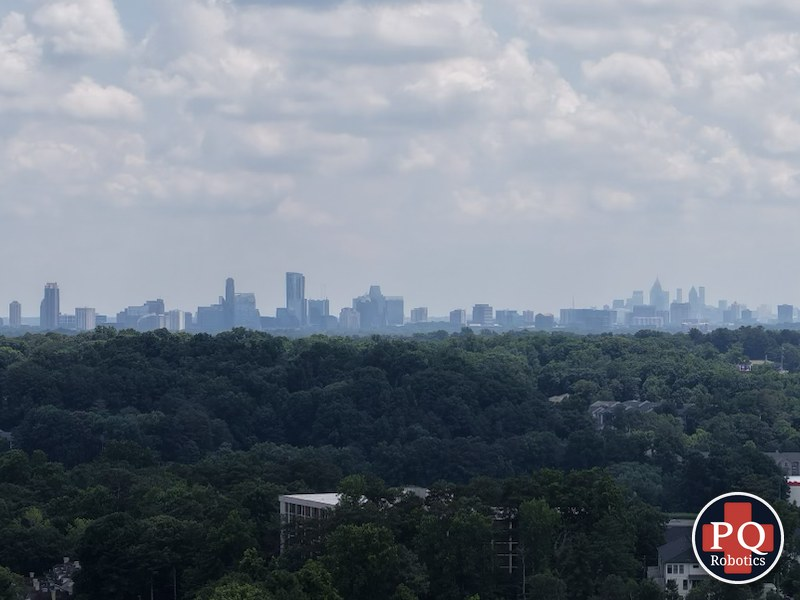
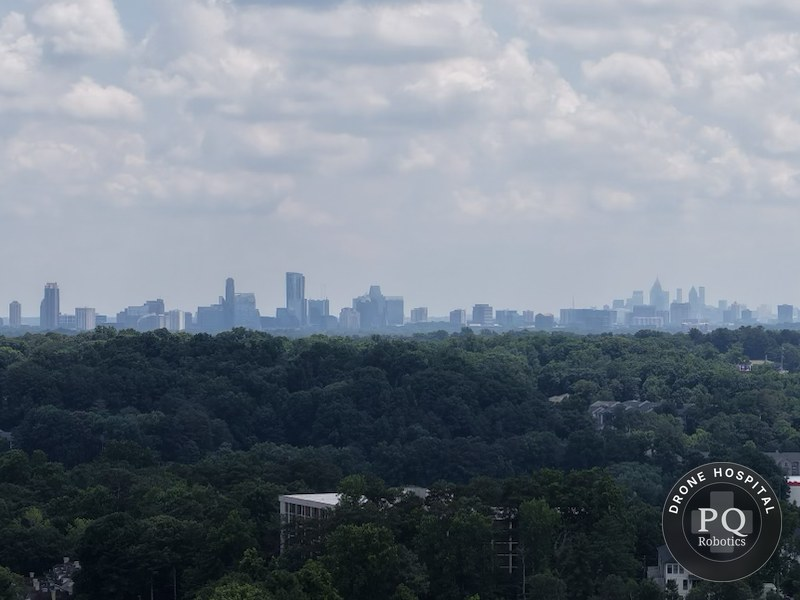
Watermark: Drone Hospital smoked-glass badge on our photos, reusable badge overlay
Claude-Session: https://claude.ai/code/session_01VkrTbRGtEEZ22rCT1RnFSw

Changed region(s): [[0.8125, 0.75, 1.0, 0.99]]

diff --git a/tools/watermark.py b/tools/watermark.py
@@ -1,55 +1,51 @@
 #!/usr/bin/env python3
-"""PQ Robotics photo watermark: the company logo inside a white ring, bottom-right.
+"""PQ Robotics / Drone Hospital photo watermark.
+
+Smoked-glass badge in the bottom-right corner: the photo behind it is blurred and
+darkened, with DRONE HOSPITAL around the ring and the PQ Robotics logo inside.
+The badge artwork lives in assets/images/watermark-badge.png.
 
 Usage:
-  python3 tools/watermark.py PHOTO [PHOTO ...]            # stamps in place
-  python3 tools/watermark.py --safe-16x9 PHOTO ...        # for photos shown in 16:9 thumbnails
-  python3 tools/watermark.py --out stamped/ PHOTO ...     # write copies instead
+  python3 tools/watermark.py PHOTO [PHOTO ...]          # stamps in place
+  python3 tools/watermark.py --safe-16x9 PHOTO ...      # photos shown in 16:9 thumbnails
+  python3 tools/watermark.py --out stamped/ PHOTO ...   # write copies instead
 
-Only run it once per photo; it doesn't detect an existing badge.
+Run it once per photo; it doesn't detect an existing badge.
 Needs Pillow:  pip install pillow
 """
 import argparse, os
 from PIL import Image, ImageDraw, ImageFilter, ImageOps
 
 HERE = os.path.dirname(os.path.abspath(__file__))
-LOGO = os.path.join(HERE, "..", "assets", "images", "pq-robotics-logo-1024.png")
-SIZE = 0.09   # badge diameter as a share of the visible short side
-PAD  = 0.03   # gap from the edges, same basis
-
-
-def badge(d):
-    S = d * 4; ring = max(4, int(S * 0.035)); gap = max(3, int(S * 0.02))
-    out = Image.new("RGBA", (S, S), (0, 0, 0, 0))
-    m = Image.new("L", (S, S), 0); ImageDraw.Draw(m).ellipse((0, 0, S - 1, S - 1), fill=255)
-    out.paste((255, 255, 255, 240), (0, 0), m)
-    inner = S - 2 * ring
-    disc = Image.new("L", (S, S), 0)
-    ImageDraw.Draw(disc).ellipse((ring, ring, ring + inner - 1, ring + inner - 1), fill=255)
-    out.paste((13, 22, 39, 255), (0, 0), disc)
-    L = inner - 2 * gap
-    lg = Image.open(LOGO).convert("RGBA").resize((L, L), Image.LANCZOS)
-    clip = Image.new("L", (L, L), 0); ImageDraw.Draw(clip).ellipse((0, 0, L - 1, L - 1), fill=255)
-    lg.putalpha(Image.composite(lg.split()[3], Image.new("L", (L, L), 0), clip))
-    out.alpha_composite(lg, (ring + gap, ring + gap))
-    return out.resize((d, d), Image.LANCZOS)
+BADGE = os.path.join(HERE, "..", "assets", "images", "watermark-badge.png")
+SIZE = 0.20   # badge diameter as a share of the visible short side
+PAD = 0.03    # gap from the edges, same basis
 
 
 def stamp(img, safe_16x9=False, size=SIZE, pad=PAD):
     img = ImageOps.exif_transpose(img).convert("RGBA")
     W, H = img.size
     vis_h, crop_y = H, 0
-    if safe_16x9 and H > W * 9 / 16:            # taller than 16:9: thumbnails crop top and bottom
+    if safe_16x9 and H > W * 9 / 16:          # thumbnails crop the top and bottom of taller photos
         vis_h = round(W * 9 / 16); crop_y = (H - vis_h) // 2
     short = min(W, vis_h)
-    d = max(48, round(short * size)); p = round(short * pad)
-    x = W - p - d; y = H - crop_y - p - d
-    sh = Image.new("RGBA", img.size, (0, 0, 0, 0))
+    d = max(64, round(short * size)); p = round(short * pad)
+    x, y = W - p - d, H - crop_y - p - d
+
+    # soft drop shadow
     shm = Image.new("L", img.size, 0)
-    ImageDraw.Draw(shm).ellipse((x, y + max(2, d // 40), x + d, y + d + max(2, d // 40)), fill=150)
-    sh.putalpha(shm.filter(ImageFilter.GaussianBlur(max(3, d // 14))))
+    off = max(2, d // 40)
+    ImageDraw.Draw(shm).ellipse((x, y + off, x + d, y + d + off), fill=90)
+    sh = Image.new("RGBA", img.size, (0, 0, 0, 0)); sh.putalpha(shm.filter(ImageFilter.GaussianBlur(max(4, d // 20))))
     img = Image.alpha_composite(img, sh)
-    img.alpha_composite(badge(d), (x, y))
+
+    # frosted backdrop: blur the photo under the badge, clipped to the circle
+    region = img.crop((x, y, x + d, y + d)).filter(ImageFilter.GaussianBlur(max(2, d * 0.05)))
+    k = 4; m = Image.new("L", (d * k, d * k), 0); ImageDraw.Draw(m).ellipse((0, 0, d * k - 1, d * k - 1), fill=255)
+    img.paste(region, (x, y), m.resize((d, d), Image.LANCZOS))
+
+    # glass, ring text and logo
+    img.alpha_composite(Image.open(BADGE).convert("RGBA").resize((d, d), Image.LANCZOS), (x, y))
     return img
 
 
